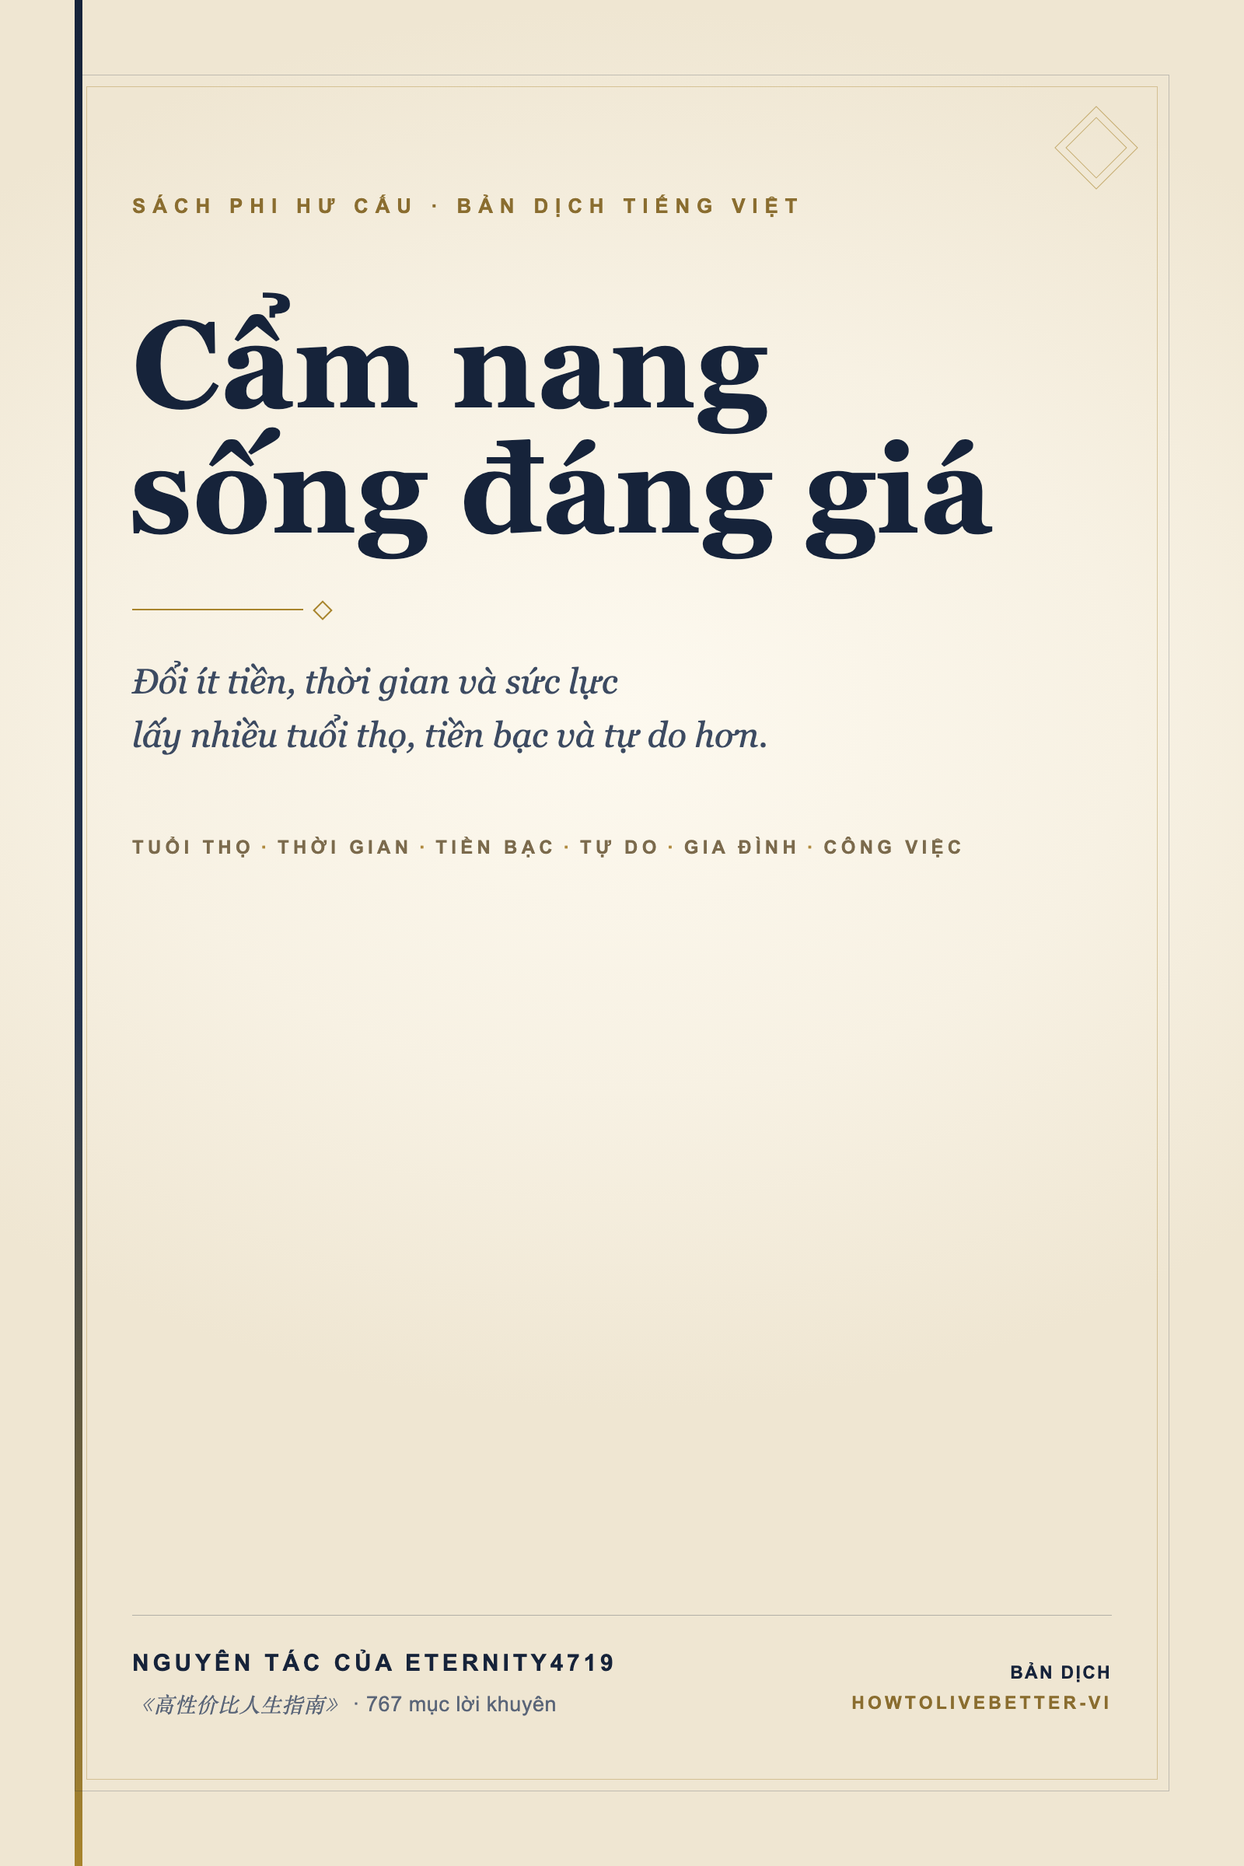
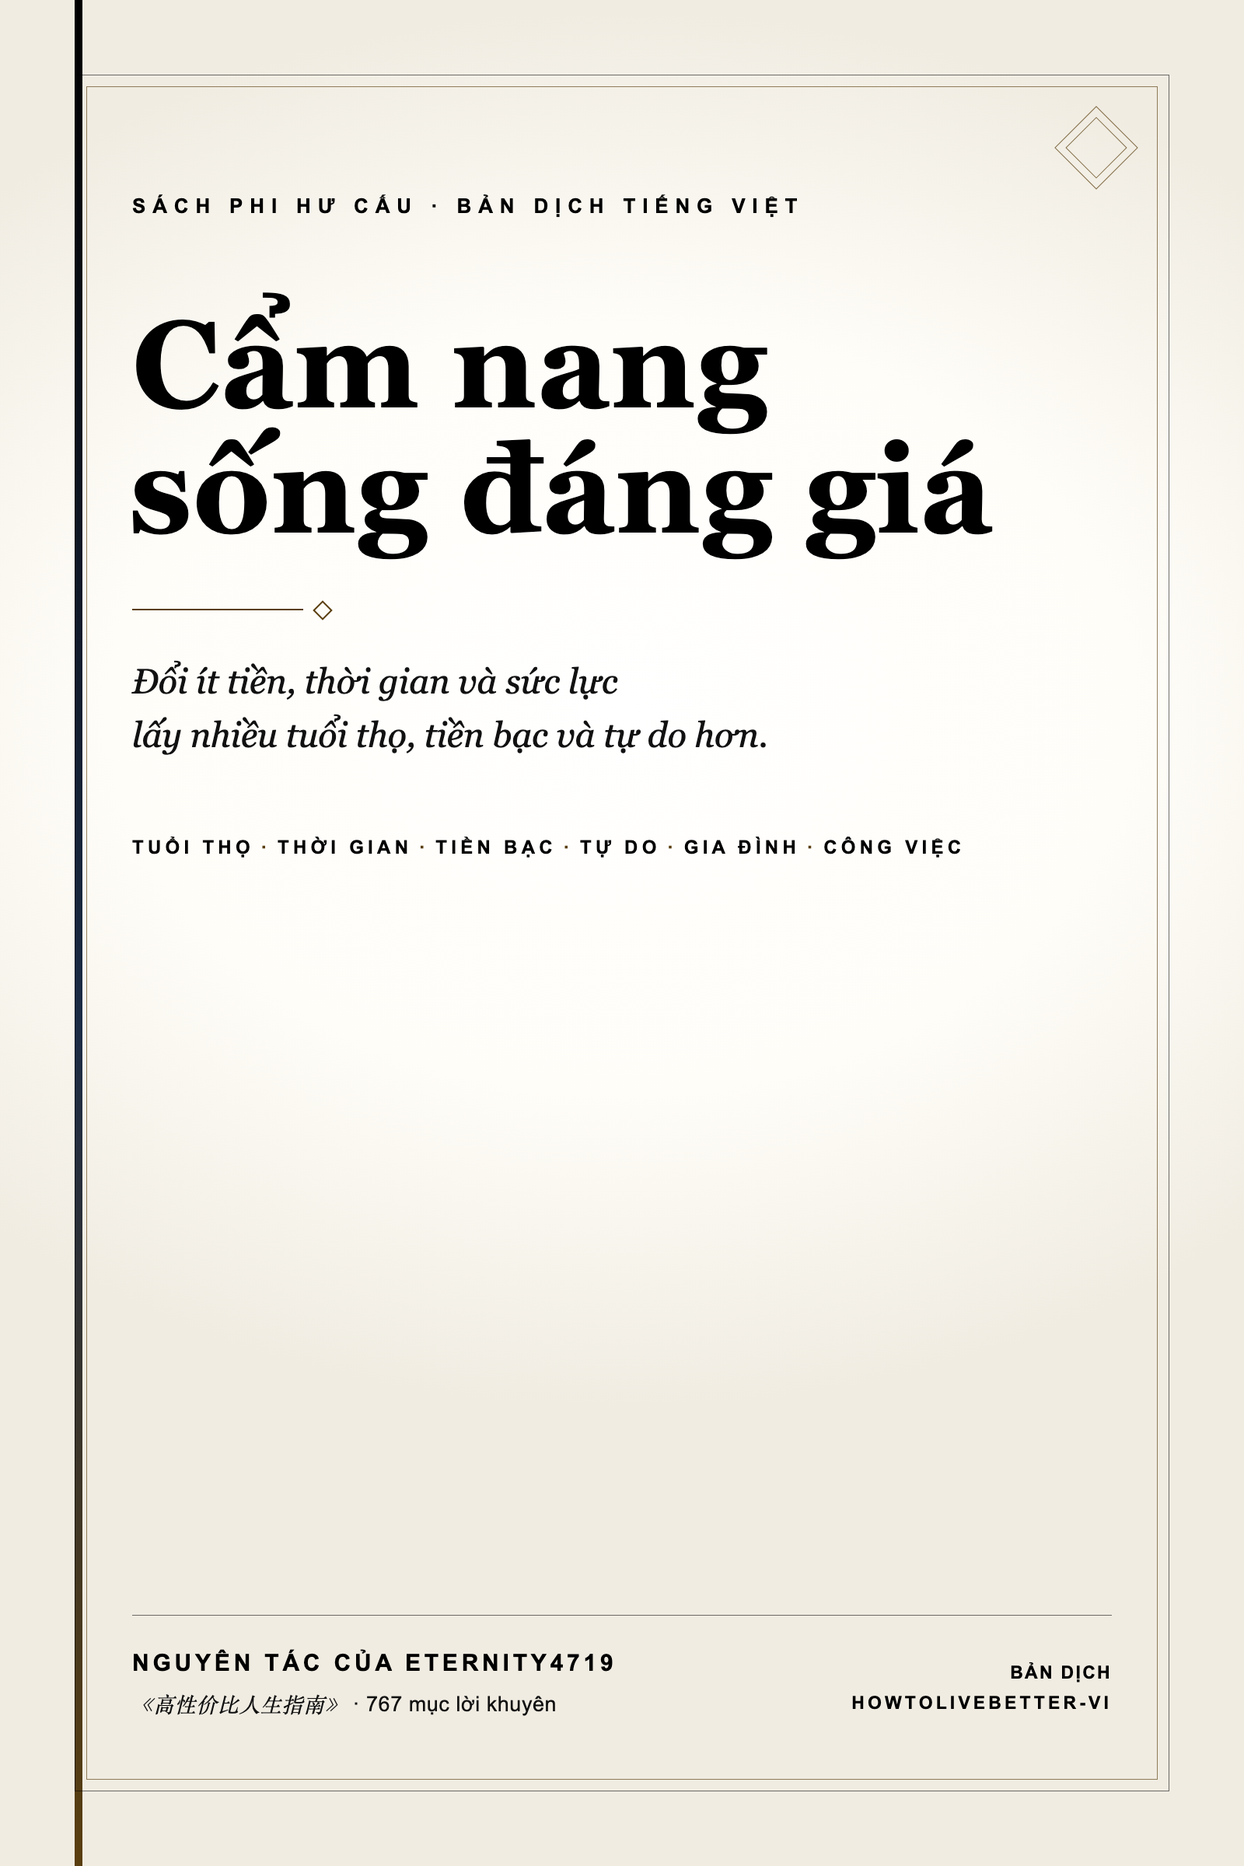
vi: high-contrast typography for Boox color e-ink

diff --git a/tools/vi/style.css b/tools/vi/style.css
@@ -1,4 +1,4 @@
-/* Bản tiếng Việt — thiết kế sách phi hư cấu: giấy ngà ấm, xanh navy, vàng đồng nhạt. */
+/* Bản tiếng Việt — thiết kế tương phản cao cho màn hình màu/e-ink: chữ đen trên nền trắng, nhấn đồng thau đậm. */
 @font-face { font-family: "Literata"; src: url("fonts/Literata-Regular.ttf"); font-weight: 400; font-style: normal; }
 @font-face { font-family: "Literata"; src: url("fonts/Literata-SemiBold.ttf"); font-weight: 600; font-style: normal; }
 @font-face { font-family: "Literata"; src: url("fonts/Literata-Italic.ttf"); font-weight: 400; font-style: italic; }
@@ -9,7 +9,7 @@
 html { font-size: 100%; }
 body {
   font-family: "Literata", "Noto Serif", Georgia, "Times New Roman", serif;
-  color: #1c2430;
+  color: #000000;
   background: transparent;
   line-height: 1.68;
   margin: 0 5%;
@@ -27,12 +27,12 @@ p + p { margin-top: 0.1em; }
 h1 + p, h2 + p, h3 + p, h4 + p, .label + p, blockquote p, li p, td p, .entry-title + p, .callout p:first-child, .sources p:first-child { text-indent: 0; }
 em { font-style: italic; }
 strong { font-weight: 600; }
-a { color: #2b4a78; text-decoration: none; overflow-wrap: anywhere; word-break: break-word; }
-a:hover { text-decoration: underline; }
+a { color: #003366; text-decoration: underline; text-decoration-thickness: 0.06em; text-underline-offset: 0.12em; overflow-wrap: anywhere; word-break: break-word; }
+a:hover { text-decoration-thickness: 0.1em; }
 
 h1, h2, h3, h4, h5 {
   font-family: "Be Vietnam Pro", "Helvetica Neue", Arial, sans-serif;
-  color: #16233a;
+  color: #000000;
   font-weight: 600;
   line-height: 1.28;
   text-indent: 0;
@@ -45,38 +45,38 @@ h3 { font-size: 1.1em; margin: 1.6em 0 0.55em; }
 h4 { font-size: 0.98em; margin: 1.2em 0 0.4em; }
 
 /* ---------- trang bìa, trang tiêu đề ---------- */
-body.cover-page { margin: 0; padding: 0; background: #faf6ec; }
+body.cover-page { margin: 0; padding: 0; background: #ffffff; }
 .cover { margin: 0; padding: 0; text-align: center; }
 .cover img { display: block; width: 100%; max-width: 100%; height: auto; margin: 0; padding: 0; }
 
 .titlepage { text-align: center; padding: 18% 4% 0; }
-.titlepage .tp-kicker { font-family: "Be Vietnam Pro", Arial, sans-serif; font-size: 0.78em; letter-spacing: 0.28em; text-transform: uppercase; color: #8a6d2f; text-indent: 0; }
+.titlepage .tp-kicker { font-family: "Be Vietnam Pro", Arial, sans-serif; font-size: 0.78em; letter-spacing: 0.28em; text-transform: uppercase; color: #000000; text-indent: 0; }
 .titlepage h1 { font-family: "Cormorant", "Literata", Georgia, serif; font-weight: 600; font-size: 2.9em; letter-spacing: 0.01em; margin: 0.5em 0 0.35em; }
-.titlepage .tp-sub { font-family: "Literata", Georgia, serif; font-style: italic; font-size: 1.08em; color: #46536a; text-indent: 0; margin: 0 6%; }
-.titlepage .tp-rule { width: 22%; margin: 2em auto; border: 0; border-top: 1px solid #b08a3e; }
-.titlepage .tp-author { font-family: "Be Vietnam Pro", Arial, sans-serif; font-size: 0.95em; letter-spacing: 0.06em; color: #24344f; text-indent: 0; }
-.titlepage .tp-trans { font-size: 0.86em; color: #5a6578; margin-top: 0.6em; text-indent: 0; }
-.titlepage .tp-imprint { margin-top: 22%; font-family: "Be Vietnam Pro", Arial, sans-serif; font-size: 0.7em; letter-spacing: 0.2em; text-transform: uppercase; color: #8a7a5c; text-indent: 0; }
+.titlepage .tp-sub { font-family: "Literata", Georgia, serif; font-style: italic; font-size: 1.08em; color: #111111; text-indent: 0; margin: 0 6%; }
+.titlepage .tp-rule { width: 22%; margin: 2em auto; border: 0; border-top: 2px solid #5a3e0e; }
+.titlepage .tp-author { font-family: "Be Vietnam Pro", Arial, sans-serif; font-size: 0.95em; letter-spacing: 0.06em; color: #000000; text-indent: 0; }
+.titlepage .tp-trans { font-size: 0.86em; color: #222222; margin-top: 0.6em; text-indent: 0; }
+.titlepage .tp-imprint { margin-top: 22%; font-family: "Be Vietnam Pro", Arial, sans-serif; font-size: 0.7em; letter-spacing: 0.2em; text-transform: uppercase; color: #333333; text-indent: 0; }
 
 /* ---------- mở chương ---------- */
 .chapter { margin-top: 0; }
 .chapter-head { margin: 0 0 2em; padding-top: 0.6em; }
-.chapter-kicker { font-family: "Be Vietnam Pro", Arial, sans-serif; font-size: 0.72em; letter-spacing: 0.3em; text-transform: uppercase; color: #96763a; text-indent: 0; margin: 0 0 0.6em; }
+.chapter-kicker { font-family: "Be Vietnam Pro", Arial, sans-serif; font-size: 0.72em; letter-spacing: 0.3em; text-transform: uppercase; color: #000000; text-indent: 0; margin: 0 0 0.6em; }
 .chapter-head h1 { font-size: 2.15em; margin: 0 0 0.55em; }
-.chapter-head .ch-rule { border: 0; border-top: 2px solid #16233a; width: 3.2em; margin: 0 0 1.4em; }
+.chapter-head .ch-rule { border: 0; border-top: 3px solid #000000; width: 3.2em; margin: 0 0 1.4em; }
 .chapter-intro { font-size: 1.02em; }
 .chapter-intro p { text-align: justify; }
-.chapter-intro p:first-of-type::first-letter { font-family: "Cormorant", "Literata", Georgia, serif; font-size: 3.1em; line-height: 0.86; float: left; padding: 0.08em 0.12em 0 0; color: #8a6d2f; font-weight: 600; }
+.chapter-intro p:first-of-type::first-letter { font-family: "Cormorant", "Literata", Georgia, serif; font-size: 3.1em; line-height: 0.86; float: left; padding: 0.08em 0.12em 0 0; color: #000000; font-weight: 600; }
 .chapter-intro p + p { margin-top: 0.55em; }
-.chapter-intro strong { color: #24344f; }
+.chapter-intro strong { color: #000000; }
 
 /* ---------- mục ---------- */
-.entry { margin: 2.4em 0 0; padding-top: 1.1em; border-top: 1px solid #e6dfcf; page-break-inside: auto; }
+.entry { margin: 2.4em 0 0; padding-top: 1.1em; border-top: 1px solid #555555; page-break-inside: auto; }
 .entry-title { font-size: 1.14em; margin: 0 0 0.35em; display: block; }
-.entry-no { display: inline-block; min-width: 1.55em; margin-right: 0.45em; font-family: "Be Vietnam Pro", Arial, sans-serif; font-size: 0.82em; font-weight: 600; color: #96763a; letter-spacing: 0.02em; }
-.entry-meta { font-family: "Be Vietnam Pro", Arial, sans-serif; font-size: 0.72em; letter-spacing: 0.04em; color: #5c6575; text-indent: 0; margin: 0 0 1.25em; }
-.entry-meta .grade { display: inline-block; margin-right: 0.7em; padding: 0.08em 0.5em; border: 1px solid #b08a3e; color: #7a5c22; font-weight: 600; letter-spacing: 0.08em; }
-.entry-meta .cost { color: #5c6575; }
+.entry-no { display: inline-block; min-width: 1.55em; margin-right: 0.45em; font-family: "Be Vietnam Pro", Arial, sans-serif; font-size: 0.82em; font-weight: 700; color: #000000; letter-spacing: 0.02em; }
+.entry-meta { font-family: "Be Vietnam Pro", Arial, sans-serif; font-size: 0.72em; letter-spacing: 0.04em; color: #111111; text-indent: 0; margin: 0 0 1.25em; }
+.entry-meta .grade { display: inline-block; margin-right: 0.7em; padding: 0.08em 0.5em; border: 1px solid #333333; background: #eeeeee; color: #000000; font-weight: 700; letter-spacing: 0.08em; }
+.entry-meta .cost { color: #111111; }
 
 .field { margin: 0 0 1em; }
 .field .label, .callout .label, .note .label, .sources .label {
@@ -86,7 +86,7 @@ body.cover-page { margin: 0; padding: 0; background: #faf6ec; }
   font-weight: 600;
   letter-spacing: 0.18em;
   text-transform: uppercase;
-  color: #8a6d2f;
+  color: #000000;
   text-indent: 0;
   margin: 0 0 0.28em;
 }
@@ -94,33 +94,33 @@ body.cover-page { margin: 0; padding: 0; background: #faf6ec; }
 .callout {
   margin: 1.15em 0 1.3em;
   padding: 0.85em 1.05em;
-  background: #f8f2e4;
-  border-left: 3px solid #b08a3e;
+  background: #ffffff;
+  border-left: 5px solid #000000; border-top: 1px solid #555555; border-right: 1px solid #555555; border-bottom: 1px solid #555555;
   page-break-inside: avoid;
 }
 .callout p { text-indent: 0; }
-.callout .label { color: #7a5c22; }
-.sources { margin: 1.1em 0 0.9em; font-size: 0.82em; line-height: 1.52; color: #4d5666; }
+.callout .label { color: #000000; }
+.sources { margin: 1.1em 0 0.9em; font-size: 0.82em; line-height: 1.52; color: #111111; }
 .sources p { text-indent: 0; word-break: break-word; overflow-wrap: break-word; }
-.sources a { color: #3c567c; }
-.note { margin: 1.1em 0 0; padding-top: 0.75em; border-top: 1px solid #e6dfcf; font-size: 0.95em; }
+.sources a { color: #003366; }
+.note { margin: 1.1em 0 0; padding-top: 0.75em; border-top: 1px solid #555555; font-size: 0.95em; }
 .note p { text-indent: 0; }
-.juris { color: #7a3f2a; font-weight: 600; }
-.disputed { color: #7a3f2a; font-weight: 600; }
-.xref { border-bottom: 1px dotted #96763a; }
+.juris { color: #000000; font-weight: 700; }
+.disputed { color: #000000; font-weight: 700; }
+.xref { border-bottom: 1px solid #333333; }
 
 /* ---------- danh sách, bảng, trích ---------- */
 ul, ol { margin: 0.6em 0 0.9em; padding-left: 1.4em; }
 li { margin: 0.22em 0; text-align: justify; }
 li p { text-indent: 0; }
-blockquote { margin: 1.2em 0; padding: 0.2em 0 0.2em 1em; border-left: 2px solid #c9b07a; color: #3d485a; font-style: italic; }
+blockquote { margin: 1.2em 0; padding: 0.2em 0 0.2em 1em; border-left: 2px solid #444444; color: #111111; font-style: italic; }
 blockquote p { text-indent: 0; text-align: left; hyphens: none; -webkit-hyphens: none; }
-hr { border: 0; border-top: 1px solid #d8cfbb; margin: 2em 0; }
+hr { border: 0; border-top: 1px solid #555555; margin: 2em 0; }
 table { border-collapse: collapse; width: 100%; max-width: 100%; margin: 1.1em 0; font-size: 0.86em; line-height: 1.45; }
-th, td { border: 1px solid #d8cfbb; padding: 0.35em 0.5em; vertical-align: top; text-align: left; overflow-wrap: break-word; }
-th { background: #f4eedf; font-family: "Be Vietnam Pro", Arial, sans-serif; font-weight: 600; }
+th, td { border: 1px solid #555555; padding: 0.35em 0.5em; vertical-align: top; text-align: left; overflow-wrap: break-word; }
+th { background: #e8e8e8; font-family: "Be Vietnam Pro", Arial, sans-serif; font-weight: 600; }
 code, pre { font-family: "SFMono-Regular", Menlo, Consolas, monospace; font-size: 0.86em; }
-pre { white-space: pre-wrap; word-break: break-word; border: 1px solid #d8cfbb; padding: 0.6em; background: #f8f4e9; }
+pre { white-space: pre-wrap; word-break: break-word; border: 1px solid #555555; padding: 0.6em; background: #ffffff; }
 img { max-width: 100%; height: auto; }
 
 /* ---------- trang phụ ---------- */
@@ -129,12 +129,12 @@ img { max-width: 100%; height: auto; }
 .frontmatter p { text-align: justify; }
 .frontmatter ul { margin-top: 0.4em; }
 .appendix h1, .backmatter h1 { font-size: 1.9em; }
-.cover-credit { font-size: 0.8em; color: #5c6575; text-indent: 0; }
+.cover-credit { font-size: 0.8em; color: #111111; text-indent: 0; }
 
 /* ---------- mục lục ---------- */
 nav#toc ol { list-style: none; padding-left: 0; margin: 0; }
 nav#toc ol ol { padding-left: 1.1em; margin: 0.35em 0 0.9em; }
 nav#toc li { margin: 0.5em 0; text-align: left; }
-nav#toc > ol > li > a { font-family: "Be Vietnam Pro", Arial, sans-serif; font-weight: 600; font-size: 0.98em; color: #16233a; }
-nav#toc ol ol a { font-size: 0.9em; color: #3d485a; }
+nav#toc > ol > li > a { font-family: "Be Vietnam Pro", Arial, sans-serif; font-weight: 600; font-size: 0.98em; color: #000000; }
+nav#toc ol ol a { font-size: 0.9em; color: #111111; }
 nav#toc a { text-decoration: none; }

diff --git a/tools/vi/cover.html b/tools/vi/cover.html
@@ -11,27 +11,27 @@
   * { margin: 0; padding: 0; box-sizing: border-box; }
   html, body { width: 1600px; height: 2400px; overflow: hidden; }
   body {
-    background: #f7f1e3;
-    color: #16233a;
+    background: #fffdf8;
+    color: #000000;
     font-family: "Be Vietnam Pro", Arial, sans-serif;
     position: relative;
   }
   .field {
     position: absolute; inset: 0;
     background:
-      radial-gradient(1200px 900px at 50% 38%, #fdf9ef 0%, #f7f1e3 55%, #efe6d2 100%);
+      radial-gradient(1200px 900px at 50% 38%, #ffffff 0%, #fffdf8 55%, #f0ece2 100%);
   }
   .frame {
     position: absolute; inset: 96px;
-    border: 1px solid rgba(22, 35, 58, 0.22);
+    border: 1px solid rgba(0, 0, 0, 0.55);
   }
   .frame::after {
     content: ""; position: absolute; inset: 14px;
-    border: 1px solid rgba(168, 132, 44, 0.38);
+    border: 1px solid rgba(90, 62, 14, 0.65);
   }
   .bar {
     position: absolute; left: 96px; top: 0; width: 10px; height: 2400px;
-    background: linear-gradient(180deg, #16233a 0%, #24344f 55%, #a8842c 100%);
+    background: linear-gradient(180deg, #000000 0%, #1b2b45 55%, #5a3e0e 100%);
   }
   .content {
     position: absolute; left: 170px; right: 170px; top: 250px; bottom: 190px;
@@ -39,62 +39,62 @@
   }
   .kicker {
     font-size: 26px; letter-spacing: 0.34em; text-transform: uppercase;
-    color: #8a6d2f; font-weight: 600;
+    color: #000000; font-weight: 600;
   }
   .title {
     margin-top: 108px;
     font-family: "Cormorant", Georgia, serif; font-weight: 600;
     font-size: 158px; line-height: 1.02; letter-spacing: 0.005em;
-    color: #16233a;
+    color: #000000;
   }
   .title .l2 { display: block; margin-left: -4px; white-space: nowrap; }
   .rule {
-    margin-top: 72px; width: 220px; height: 2px; background: #a8842c; position: relative;
+    margin-top: 72px; width: 220px; height: 2px; background: #5a3e0e; position: relative;
   }
   .rule::after {
     content: ""; position: absolute; right: -34px; top: -7px;
     width: 14px; height: 14px; transform: rotate(45deg);
-    border: 2px solid #a8842c; background: #f7f1e3;
+    border: 2px solid #5a3e0e; background: #fffdf8;
   }
   .sub {
     margin-top: 58px;
     font-family: "Literata", Georgia, serif; font-style: italic;
-    font-size: 45px; line-height: 1.52; color: #3c4a61;
+    font-size: 45px; line-height: 1.52; color: #111111;
     max-width: 1120px;
   }
   .themes {
     margin-top: 96px;
     font-size: 24px; letter-spacing: 0.22em; text-transform: uppercase;
-    color: #7b6a4c; font-weight: 600;
+    color: #000000; font-weight: 600;
   }
-  .themes span { color: #b08a3e; padding: 0 0.35em; }
+  .themes span { color: #5a3e0e; padding: 0 0.35em; }
   .meta {
     margin-top: auto;
-    border-top: 1px solid rgba(22, 35, 58, 0.28);
+    border-top: 1px solid rgba(0, 0, 0, 0.55);
     padding-top: 44px;
     display: flex; justify-content: space-between; align-items: flex-end;
   }
   .meta-left { }
   .meta .author {
     font-size: 30px; letter-spacing: 0.16em; text-transform: uppercase;
-    font-weight: 600; color: #16233a;
+    font-weight: 600; color: #000000;
   }
   .meta .orig {
-    margin-top: 16px; font-size: 27px; color: #5a6578; letter-spacing: 0.02em;
+    margin-top: 16px; font-size: 27px; color: #111111; letter-spacing: 0.02em;
   }
   .meta .orig span { font-family: "Literata", Georgia, serif; font-style: italic; }
   .meta-right {
     text-align: right; font-size: 23px; letter-spacing: 0.18em; text-transform: uppercase;
-    color: #8a6d2f; line-height: 1.7; font-weight: 600;
+    color: #000000; line-height: 1.7; font-weight: 600;
   }
-  .meta-right .n { color: #16233a; letter-spacing: 0.1em; }
+  .meta-right .n { color: #000000; letter-spacing: 0.1em; }
   .seal {
     position: absolute; right: 152px; top: 152px;
-    width: 76px; height: 76px; border: 1px solid rgba(168, 132, 44, 0.6);
+    width: 76px; height: 76px; border: 1px solid rgba(90, 62, 14, 0.75);
     transform: rotate(45deg);
   }
   .seal::after {
-    content: ""; position: absolute; inset: 9px; border: 1px solid rgba(168, 132, 44, 0.6);
+    content: ""; position: absolute; inset: 9px; border: 1px solid rgba(90, 62, 14, 0.75);
   }
 </style>
 </head>

diff --git a/vi/qa/visual.md b/vi/qa/visual.md
@@ -10,7 +10,7 @@ Thiết bị/engine dùng để kiểm tra: **Chromium headless** (bản đi kè
 | Trang tiêu đề | đạt | tiêu đề, phụ đề, tác giả, người dịch xuống dòng đúng ở cả ba khổ |
 | Mục lục | đạt | 34 chương + 767 mục; phân cấp; liên kết hoạt động |
 | Mở chương | đạt | số chương, tiêu đề, đường kẻ; chữ đầu chương (drop cap) hiển thị, không đè chữ |
-| Một mục | đạt | nhãn Chi phí / Nói dễ hiểu / Lợi ích / Nguồn / Ghi chú rõ; callout nền ngà, viền vàng; cảnh báo «Chỉ áp dụng ở Trung Quốc» in đậm, không chỉ dựa vào màu |
+| Một mục | đạt | nhãn Chi phí / Nói dễ hiểu / Lợi ích / Nguồn / Ghi chú in đen; callout nền trắng, viền đen; cảnh báo «Chỉ áp dụng ở Trung Quốc» in đậm, không chỉ dựa vào màu |
 | Nguồn và URL | đạt | URL dài tự xuống dòng, không tràn ngang; liên kết giữ nguyên |
 | Bảng | đạt | bảng thuật ngữ 2 cột đọc được ở 620 px; chữ trong ô tự xuống dòng |
 | Chú thích | đạt | khối «Ghi chú» có đường kẻ trên, tách khỏi phần trên |
@@ -18,6 +18,22 @@ Thiết bị/engine dùng để kiểm tra: **Chromium headless** (bản đi kè
 | Trang ấn bản | đạt | tiêu đề và phụ đề tách dòng; blockquote ghi công canh trái |
 | Tràn ngang | không phát hiện | `scrollWidth == clientWidth` ở trang mục; không có phần tử tràn |
 | Dấu tiếng Việt | đủ | kiểm tra trực quan các chữ ă, â, đ, ê, ô, ơ, ư, các thanh điệu; không thấy ô vuông hay dấu rời |
+
+## Tương phản cho Boox / màn hình màu
+
+Bản đầu dùng chữ phụ xám (#5c6575), nhãn vàng đồng nhạt (#8a6d2f), nền ngà và callout kem. Trên Boox màu (màn hình e-ink màu), các màu này bị rửa thành xám trên nền trắng, khó đọc. Bản này đổi toàn bộ chữ sang đen:
+
+| Thành phần | Trước | Sau | Tương phản trên trắng |
+| --- | --- | --- | --- |
+| Chữ thân | #1c2430 | #000000 | 21:1 |
+| Chữ phụ / nguồn | #5c6575 / #4d5666 | #111111 | 18,9:1 |
+| Nhãn Chi phí, Nói dễ hiểu… | #8a6d2f | #000000 | 21:1 |
+| Liên kết | #2b4a78 | #003366 + gạch chân | 12,6:1 |
+| Callout | nền kem, viền vàng | nền trắng, viền đen 1 px, gạch trái 5 px | 21:1 |
+| Đường kẻ / bảng | #e6dfcf | #555555 | 7,4:1 |
+| Bìa | vàng nhạt trên ngà | đen trên trắng ngà | 21:1 |
+
+Không còn chữ xám nhạt. Các màu đồng thau còn lại chỉ dùng cho đường kẻ trang trí, không dùng cho chữ. Đã kiểm tra lại ảnh chụp ở 620/820/1100 px; không tràn ngang.
 
 ## Chưa kiểm tra được
 

diff --git a/vi/qa/final-report.md b/vi/qa/final-report.md
@@ -49,6 +49,7 @@
 - Chụp 620×1000, 820×1200, 1100×1400 cho bìa, trang tiêu đề, mục lục, mở chương, một mục, phụ lục, trang ấn bản.
 - Phát hiện và sửa tràn ngang 749 px ở phụ lục do URL dài; sau sửa **0 tràn ngang** ở cả ba khổ.
 - Dấu tiếng Việt đủ; không thấy cắt chữ hay ô vuông.
+- **Tương phản cao cho Boox/màn hình màu**: toàn bộ chữ đổi sang đen trên nền trắng; bỏ chữ xám (#5c6575), nhãn vàng nhạt (#8a6d2f), callout kem; callout nay nền trắng viền đen. Tỷ lệ tương phản chữ thân 21:1, chữ phụ 18,9:1, liên kết 12,6:1. Bìa cũng đổi sang đen trên nền trắng ngà.
 - **Chỉ kiểm tra bằng Chromium.** Apple Books có trên máy nhưng phiên chạy không có quyền chụp màn hình; Calibre, Thorium, Kindle, Kobo chưa cài.
 
 ## 4. Cổng chất lượng

diff --git a/vi/qa/report.md b/vi/qa/report.md
@@ -1,6 +1,6 @@
 # Báo cáo kiểm tra bản tiếng Việt
 
-- Thời điểm: 2026-11-04T06:04:35.672Z
+- Thời điểm: 2026-11-04T06:56:44.633Z
 - Nguồn: `e2605d3`
 - Chương đủ mục: 34/34
 - Mục đã dịch lại và gộp: 767/767 (100.0%); hiện có 767 mục trong sách
